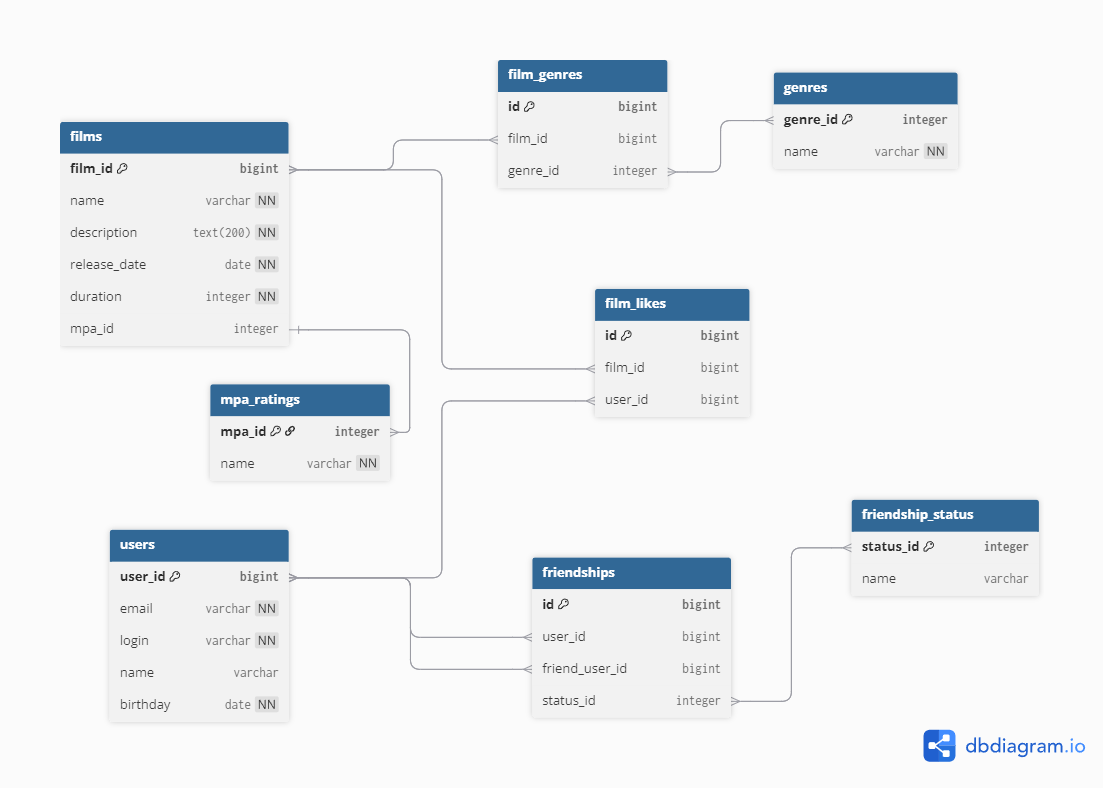
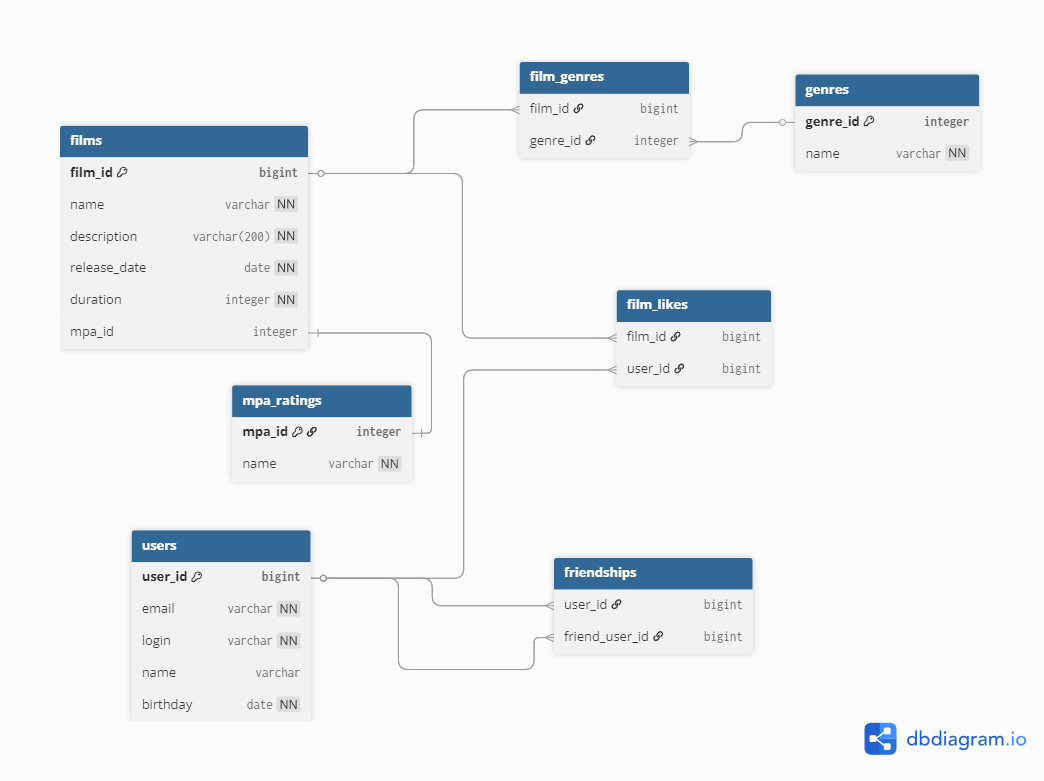
Изменения схемы и описания БД

diff --git a/README.md b/README.md
@@ -8,13 +8,12 @@
 Содержит данные о фильмах:
 * film_id - id фильма (тип bigint).
 * name - название фильма (тип varchar).
-* description - описание фильма (тип text с ограничением 200 символов). 
+* description - описание фильма (тип varchar с ограничением 200 символов). 
 * release_date - дата выхода фильма (тип date). 
 * duration - длительность фильма (тип integer). 
 * rating_id - id рейтинга фильма (тип integer).
 #### film_genres
 Содержит id жанров для каждого фильма:
-* id - id связи (тип bigint).
 * film_id - id фильма (тип bigint).
 * genre_id - id жанра (тип integer).
 #### genres
@@ -27,7 +26,6 @@
 * name - название MPA-рейтинга (тип varchar).
 #### film_likes
 Содержит id пользователей, которым понравился фильм:
-* id - id связи (тип bigint).
 * film_id - id фильма (тип bigint).
 * user_id - id пользователя, которому понравился фильм (тип bigint).
 #### users
@@ -39,14 +37,8 @@
 * birthday - день рождения пользователя (тип date).
 #### friendships
 Содержит данные о дружбе пользователей:
-* id - id связи (тип bigint).
 * user_id - id пользователя (тип bigint).
 * friend_user_id - id друга (тип bigint).
-* status_id - id статуса  дружбы (тип integer).
-#### friendships_status
-Содержит данные о статусе дружбы:
-* status_id - id статуса дружбы (тип integer).
-* name - название статуса дружбы (тип varchar).
 ### Примеры запросов
 * Получить данные о всех фильмах:
 ```
